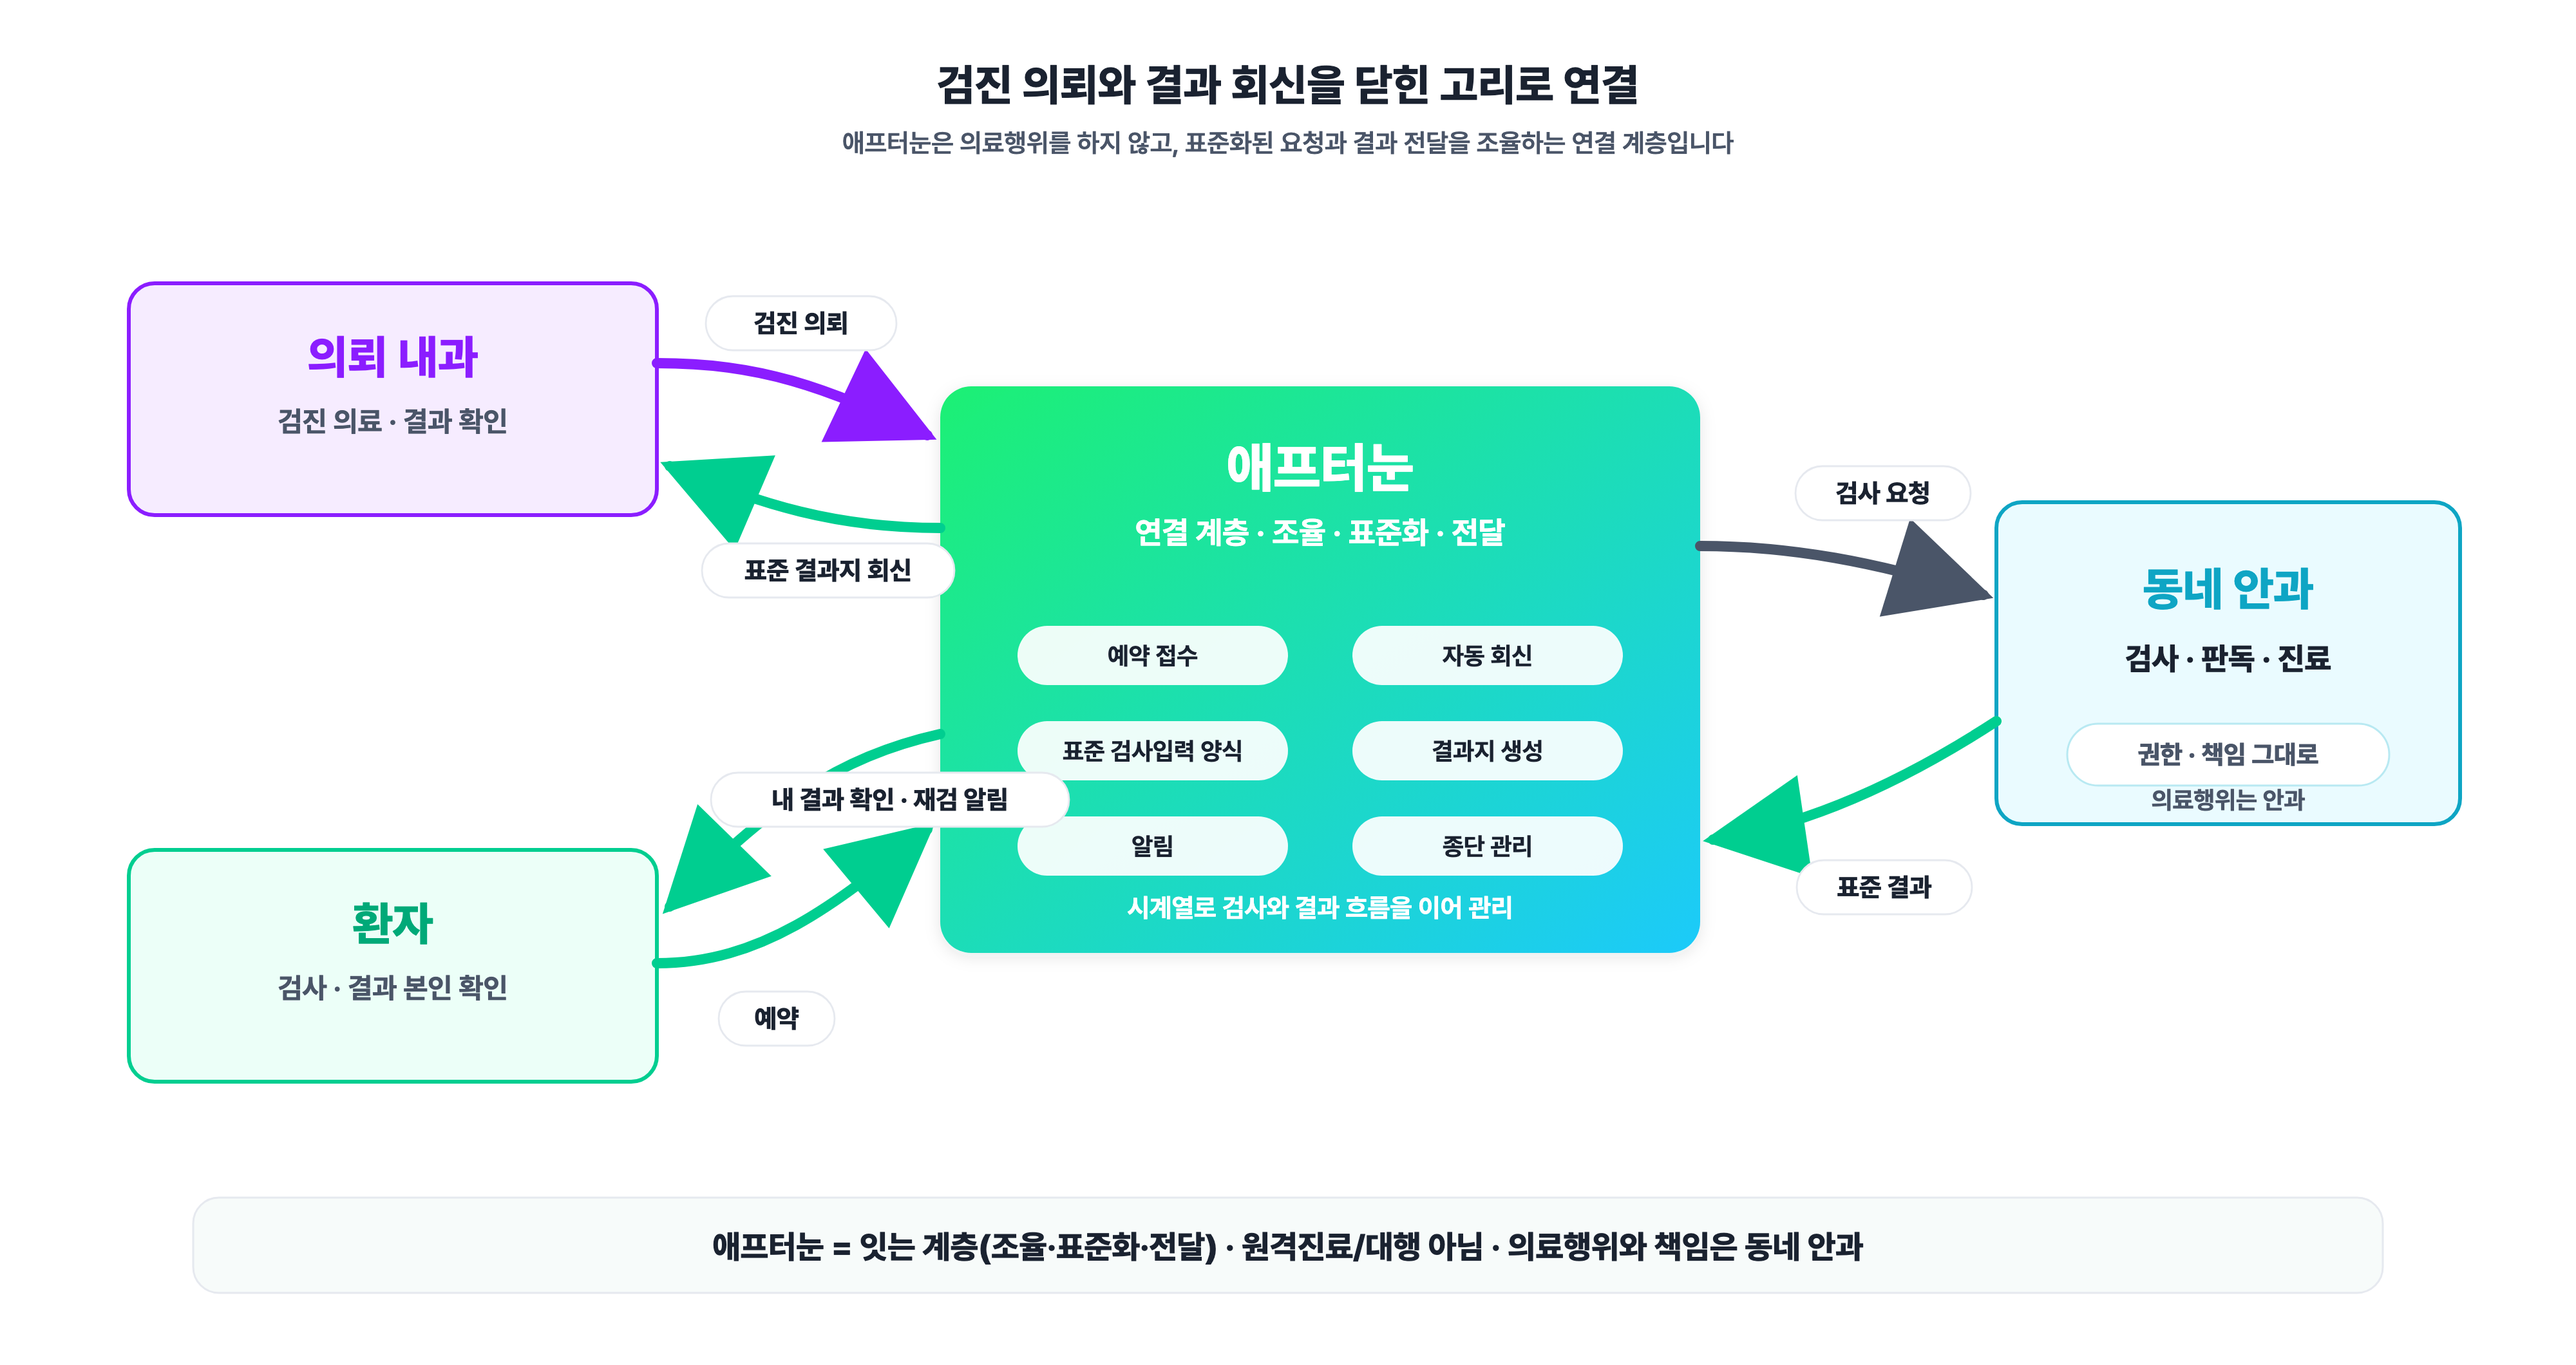
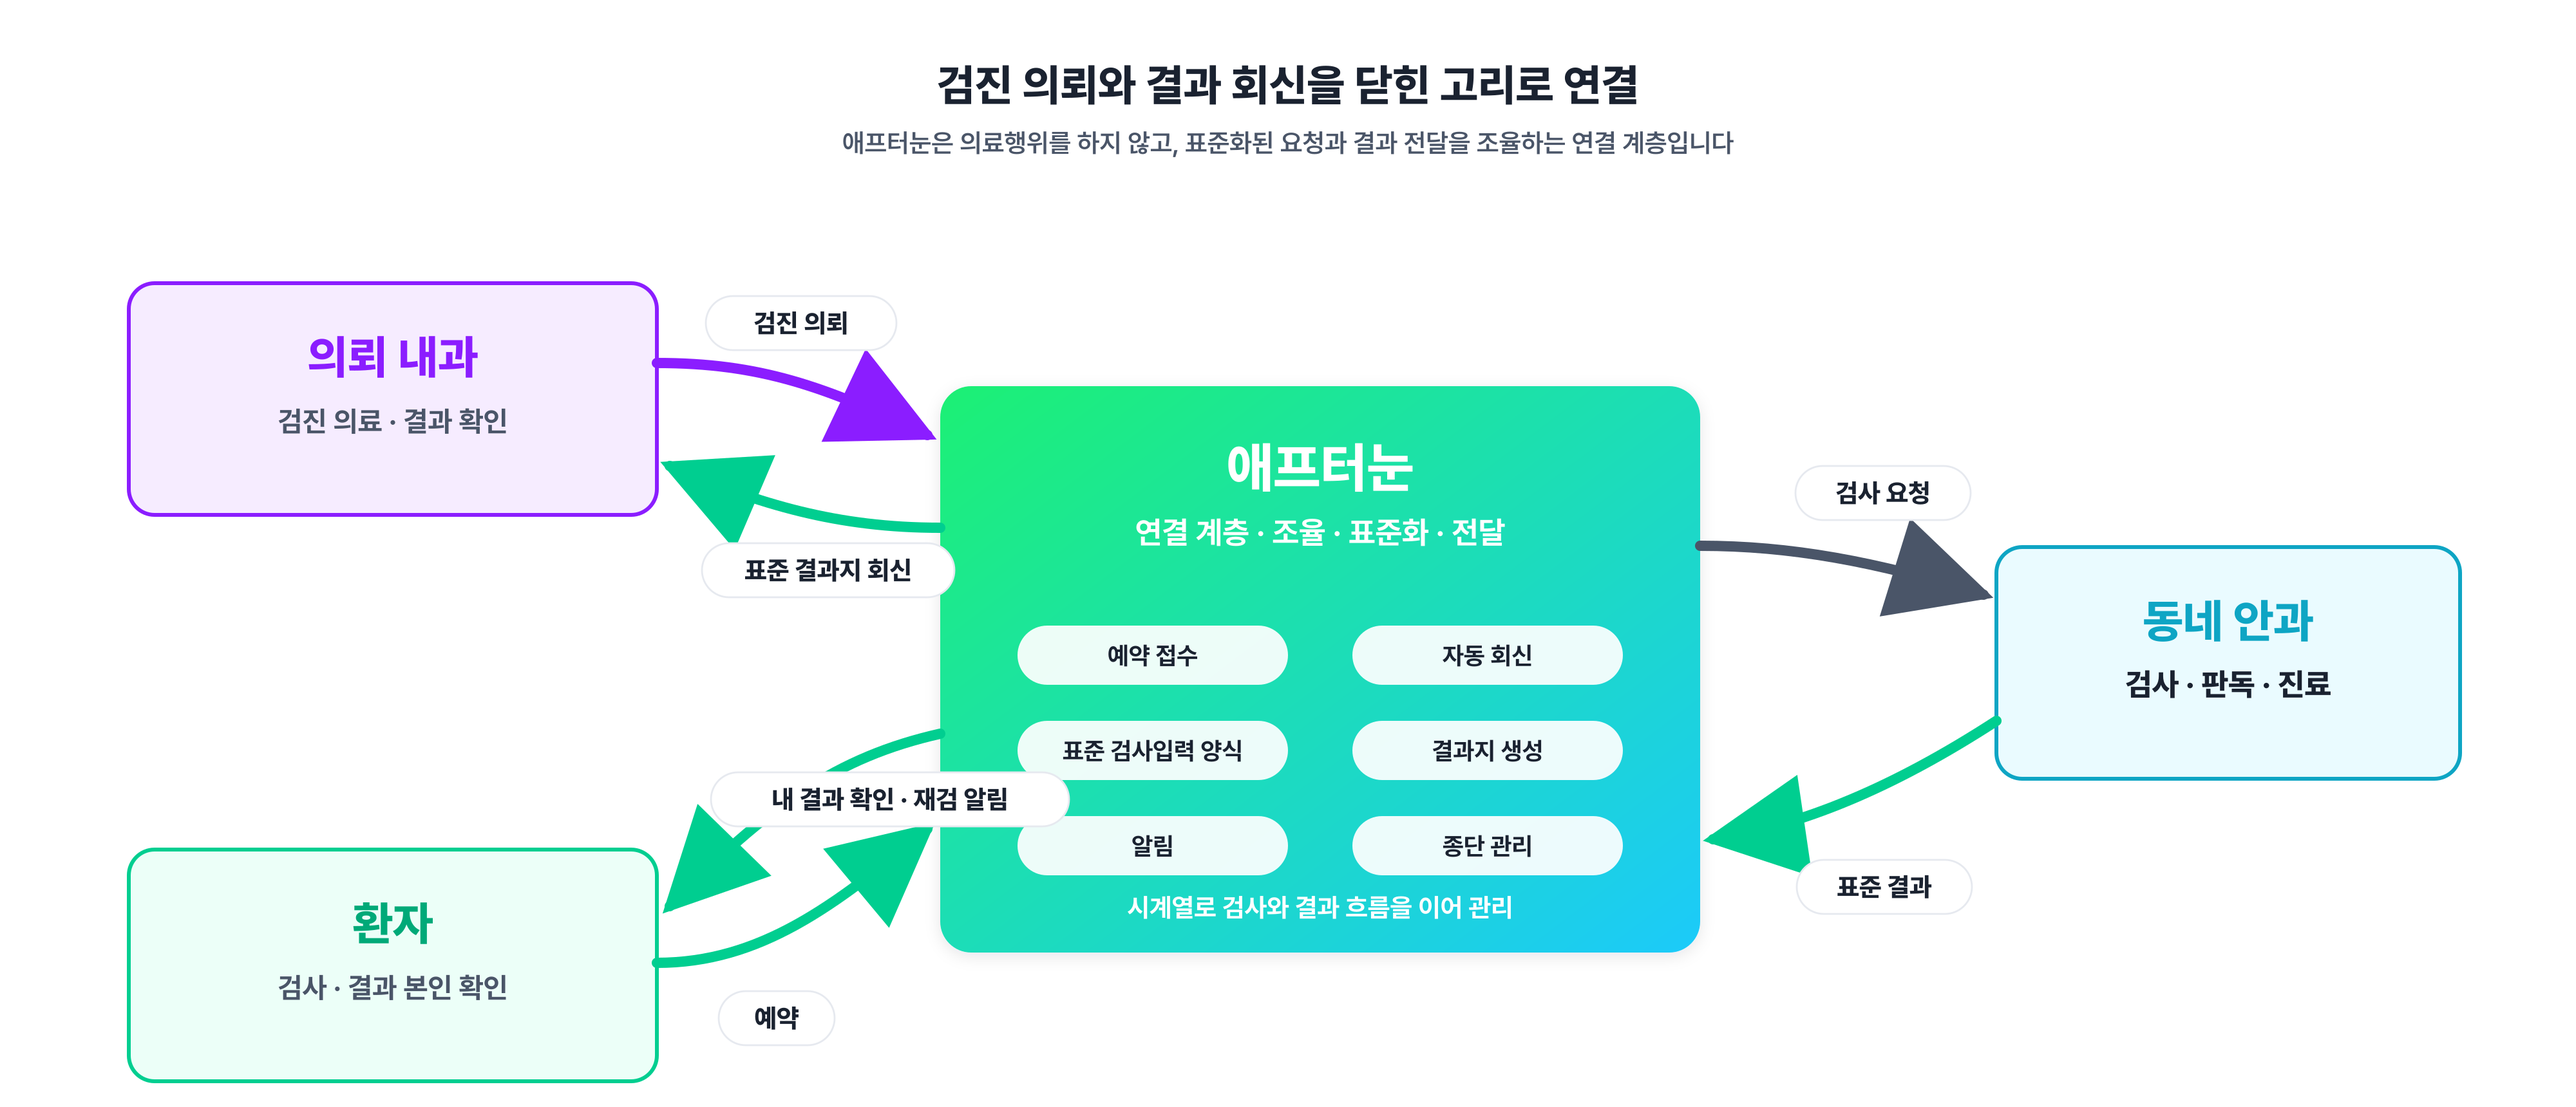
Add research data-flow diagram (Data Review Committee)

diff --git a/README.md b/README.md
@@ -43,6 +43,7 @@ Notion 등 외부 임베드용 공개 이미지 호스팅. 원본 관리는 afte
 | `diagrams/diag-measure-connect-use.png` | 개념도: 측정·연결·활용 | https://raw.githubusercontent.com/snubhretina/afternoon-whitepaper-assets/main/diagrams/diag-measure-connect-use.png |
 | `diagrams/diag-screening-gap.png` | 개념도: 검진율 격차 | https://raw.githubusercontent.com/snubhretina/afternoon-whitepaper-assets/main/diagrams/diag-screening-gap.png |
 | `diagrams/diag-lineup.png` | 개념도: 검사 라인업 | https://raw.githubusercontent.com/snubhretina/afternoon-whitepaper-assets/main/diagrams/diag-lineup.png |
+| `diagrams/research-data-flow.png` | 리서치 데이터플로우(원내망 EDC→비식별 통계자료 전송) | https://raw.githubusercontent.com/snubhretina/afternoon-whitepaper-assets/main/diagrams/research-data-flow.png |
 | `diagrams/flow-patient.svg` | 흐름도: 환자 중심(벡터) | https://raw.githubusercontent.com/snubhretina/afternoon-whitepaper-assets/main/diagrams/flow-patient.svg |
 | `diagrams/flow-internalmed.svg` | 흐름도: 내과(벡터) | https://raw.githubusercontent.com/snubhretina/afternoon-whitepaper-assets/main/diagrams/flow-internalmed.svg |
 | `diagrams/flow-ophthalmology.svg` | 흐름도: 안과(벡터) | https://raw.githubusercontent.com/snubhretina/afternoon-whitepaper-assets/main/diagrams/flow-ophthalmology.svg |

diff --git a/url_map.md b/url_map.md
@@ -37,6 +37,7 @@ diagrams/DIAG_큰그림_v1.png	https://raw.githubusercontent.com/snubhretina/aft
 diagrams/DIAG_측정연결활용_v1.png	https://raw.githubusercontent.com/snubhretina/afternoon-whitepaper-assets/main/diagrams/diag-measure-connect-use.png
 diagrams/DIAG_검진율격차_v1.png	https://raw.githubusercontent.com/snubhretina/afternoon-whitepaper-assets/main/diagrams/diag-screening-gap.png
 diagrams/DIAG_라인업_v1.png	https://raw.githubusercontent.com/snubhretina/afternoon-whitepaper-assets/main/diagrams/diag-lineup.png
+diagrams/DIAG_리서치데이터플로우_v1.png	https://raw.githubusercontent.com/snubhretina/afternoon-whitepaper-assets/main/diagrams/research-data-flow.png
 diagrams/FLOW_환자중심_v1.svg	https://raw.githubusercontent.com/snubhretina/afternoon-whitepaper-assets/main/diagrams/flow-patient.svg
 diagrams/FLOW_내과중심_v1.svg	https://raw.githubusercontent.com/snubhretina/afternoon-whitepaper-assets/main/diagrams/flow-internalmed.svg
 diagrams/FLOW_안과중심_v1.svg	https://raw.githubusercontent.com/snubhretina/afternoon-whitepaper-assets/main/diagrams/flow-ophthalmology.svg
